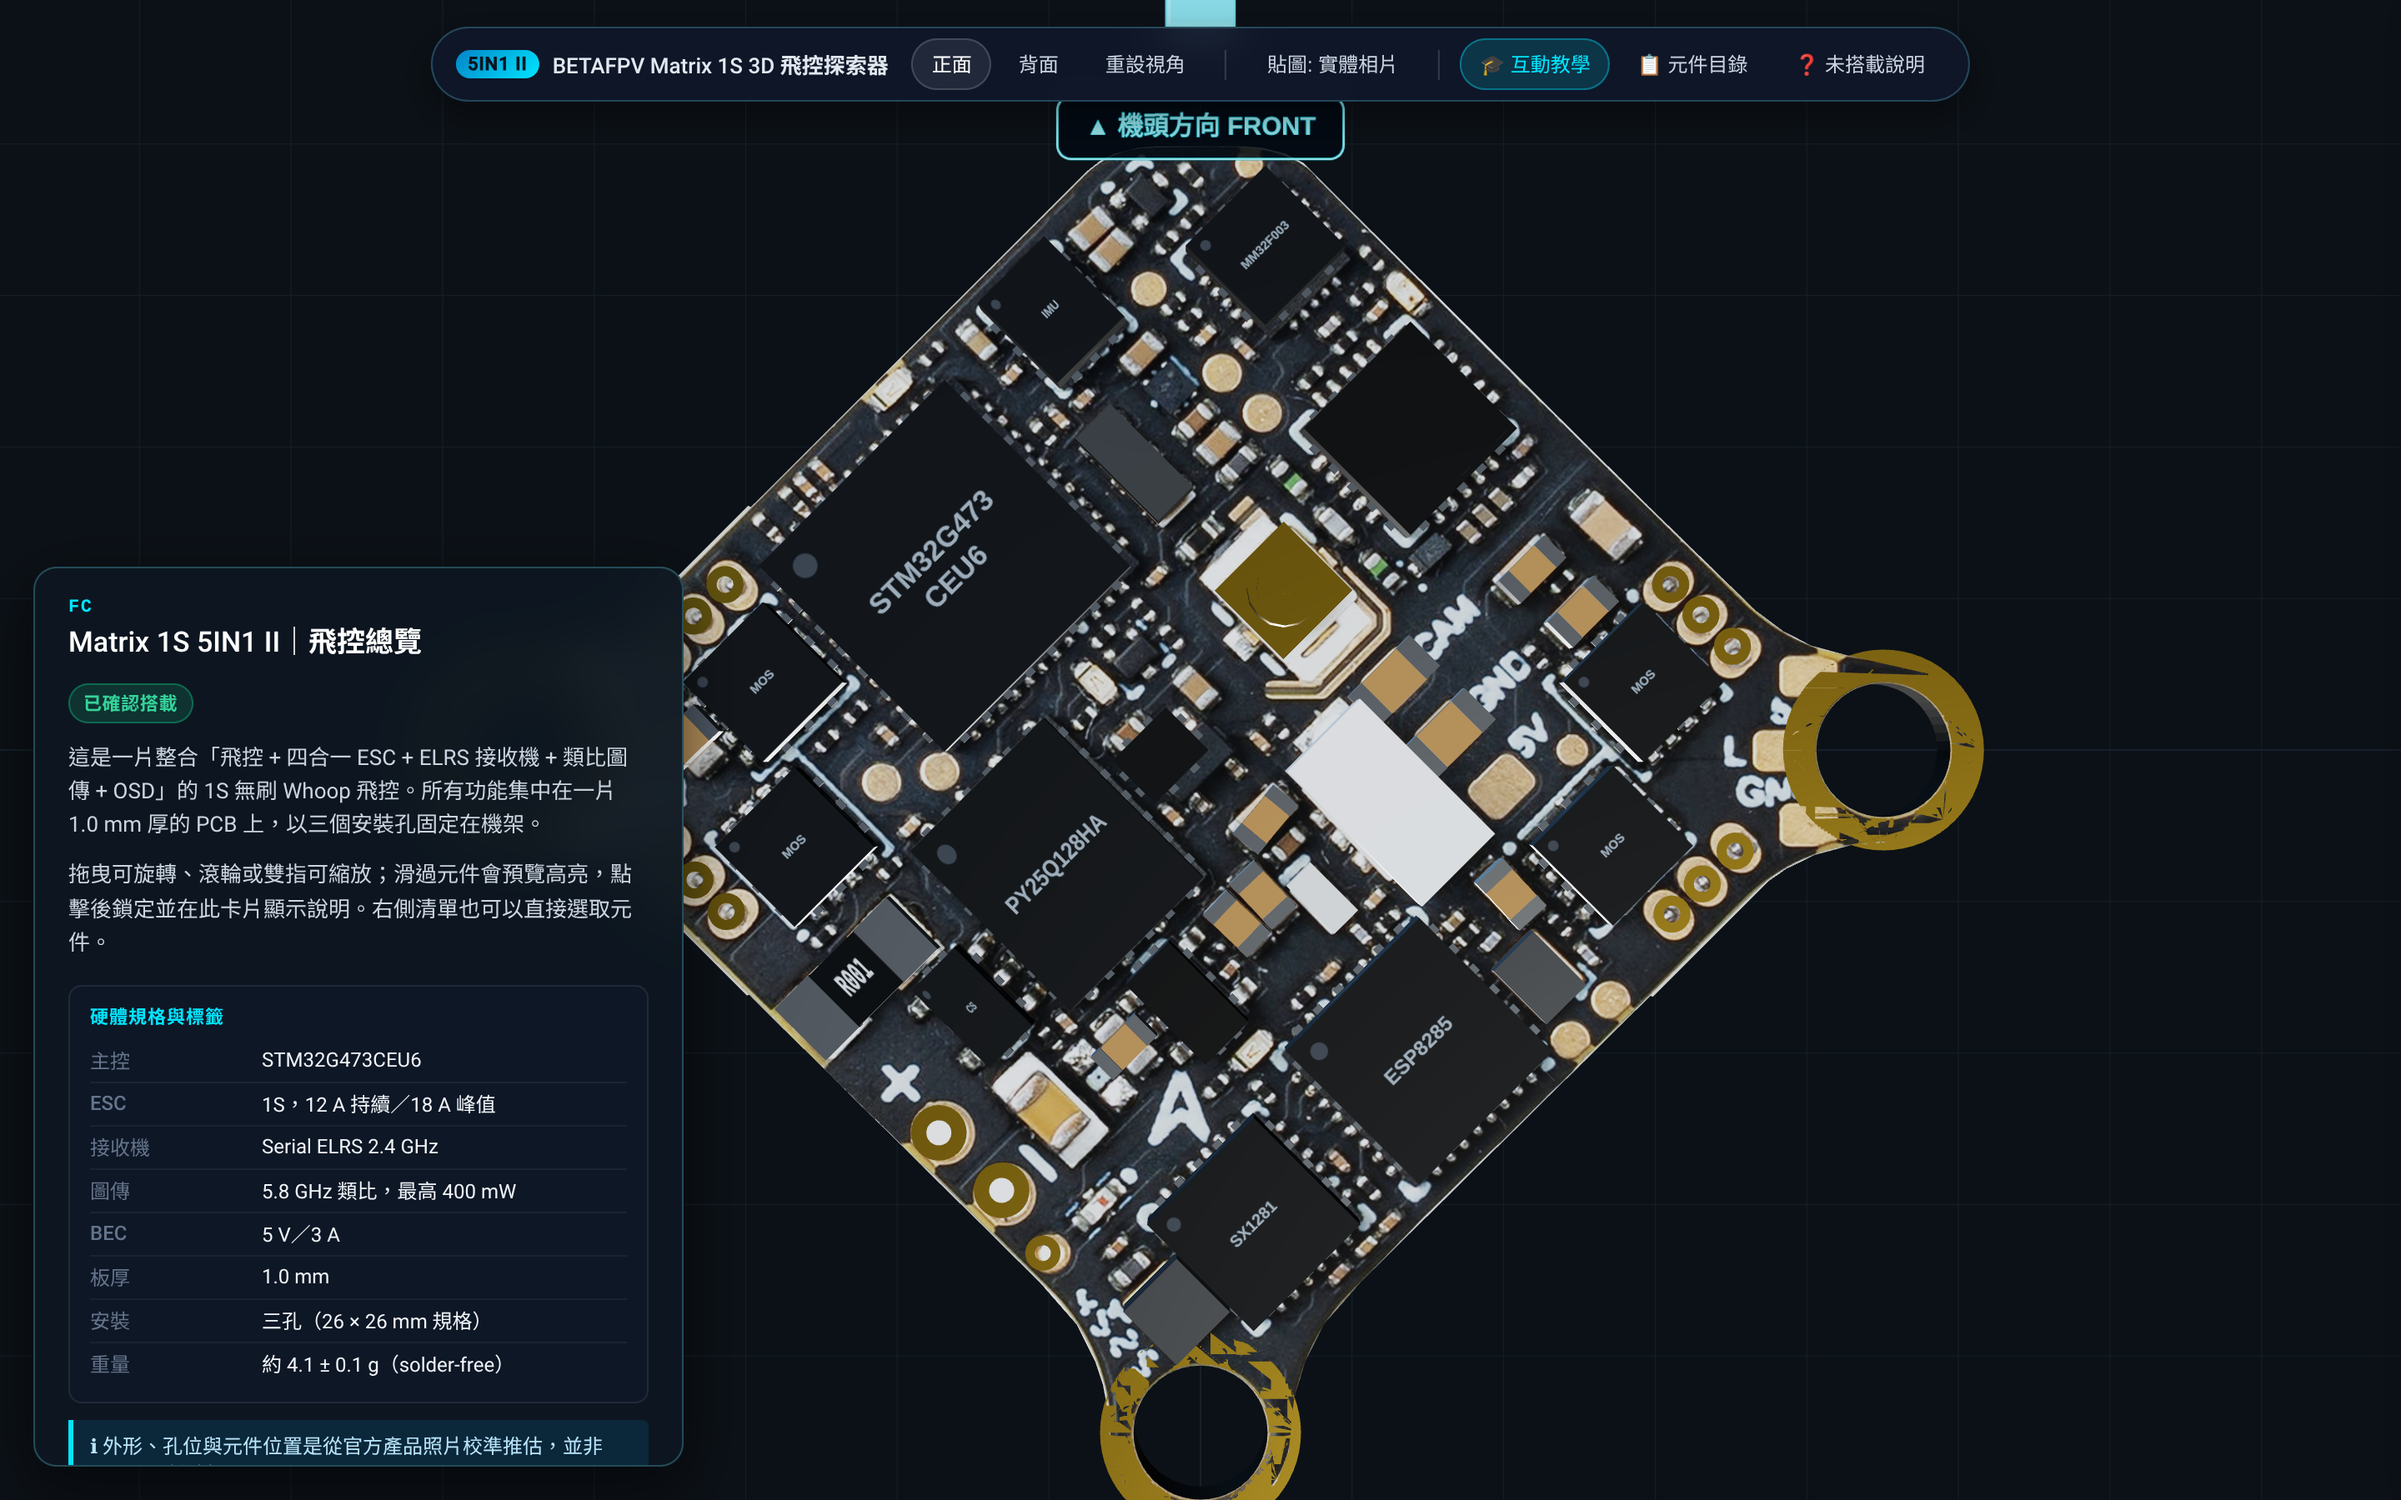
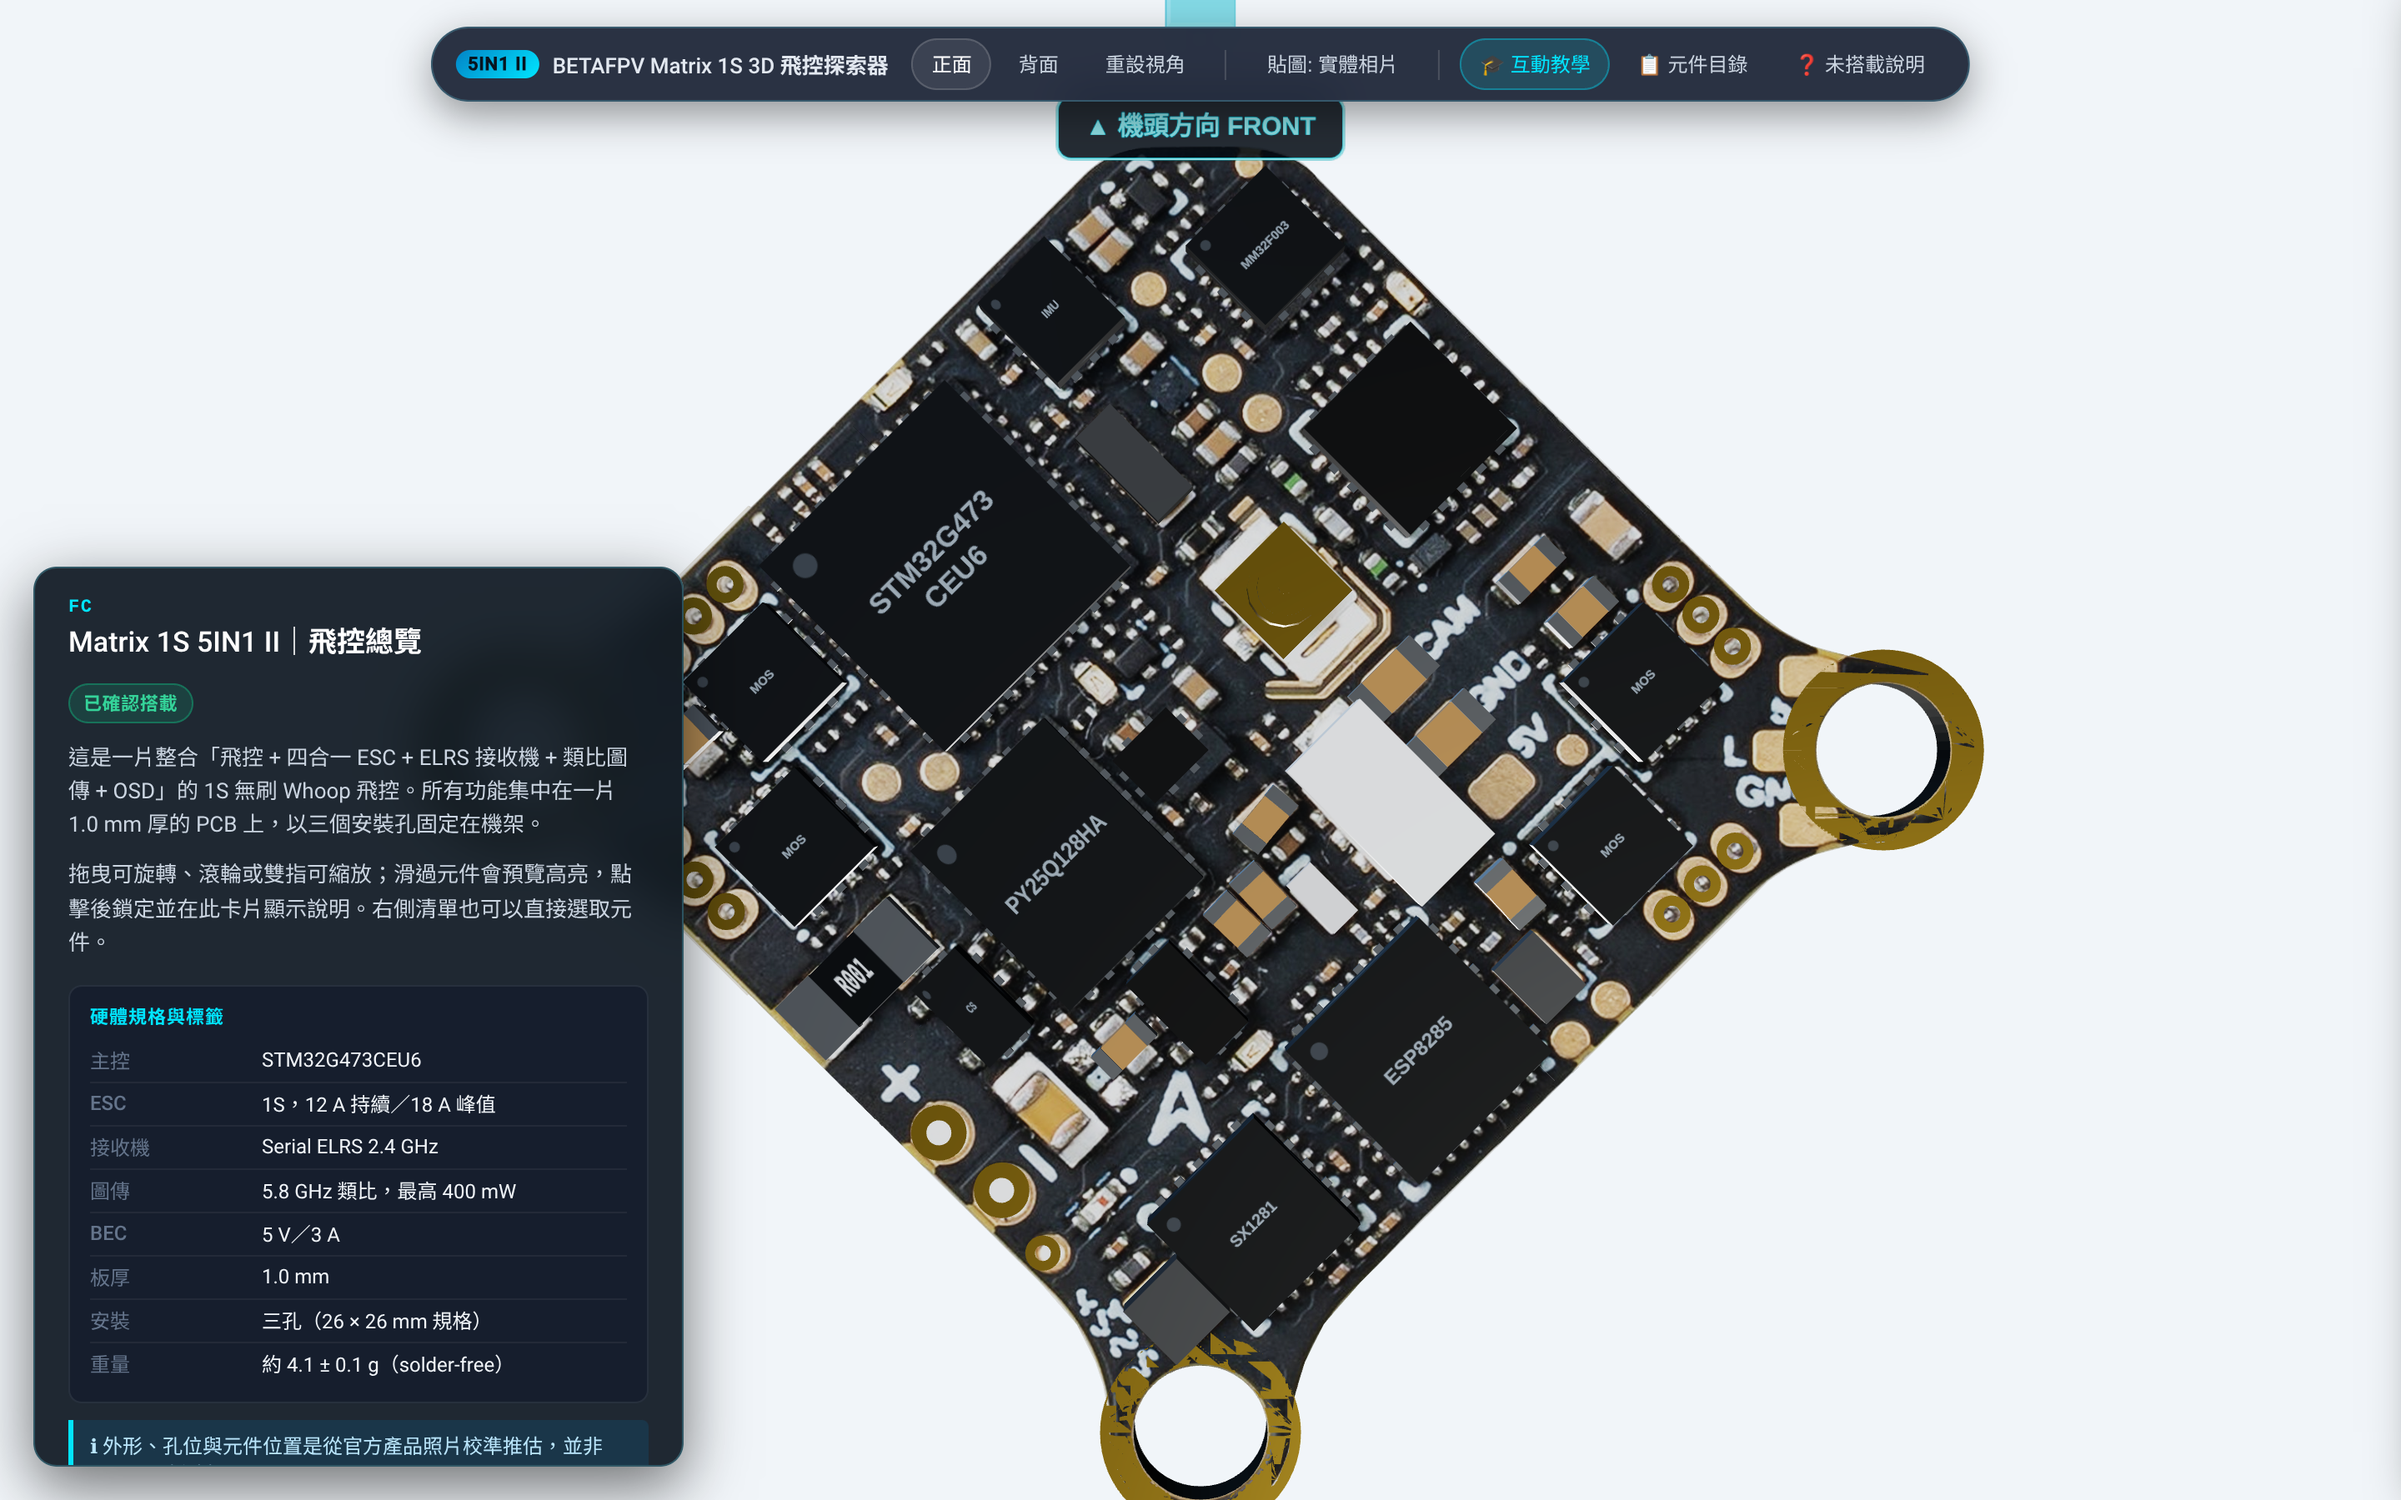
style: remove 3D grid and switch to bright studio background

diff --git a/src/scene/setupScene.ts b/src/scene/setupScene.ts
@@ -13,12 +13,7 @@ export interface SceneContext {
  */
 export function setupScene(container: HTMLElement): SceneContext {
   const scene = new THREE.Scene();
-  scene.background = new THREE.Color(0x0c1117);
-
-  // Subtle coordinate grid on floor for spatial orientation
-  const gridHelper = new THREE.GridHelper(120, 24, 0x1f2e3d, 0x141e28);
-  gridHelper.position.y = -12;
-  scene.add(gridHelper);
+  scene.background = new THREE.Color(0xf1f5f9);
 
   // Camera: initial view angled toward front face
   const width = container.clientWidth || window.innerWidth;
@@ -36,26 +31,26 @@ export function setupScene(container: HTMLElement): SceneContext {
   renderer.setPixelRatio(Math.min(window.devicePixelRatio, 2));
   renderer.outputColorSpace = THREE.SRGBColorSpace;
   renderer.toneMapping = THREE.ACESFilmicToneMapping;
-  renderer.toneMappingExposure = 1.15;
+  renderer.toneMappingExposure = 1.08;
   renderer.shadowMap.enabled = true;
   renderer.shadowMap.type = THREE.PCFSoftShadowMap;
 
   container.appendChild(renderer.domElement);
 
-  // Lighting setup
-  const ambientLight = new THREE.AmbientLight(0xffffff, 0.75);
+  // Lighting setup for bright studio environment
+  const ambientLight = new THREE.AmbientLight(0xffffff, 0.7);
   scene.add(ambientLight);
 
-  const hemiLight = new THREE.HemisphereLight(0xddeeff, 0x1a202c, 0.6);
+  const hemiLight = new THREE.HemisphereLight(0xffffff, 0xcbd5e1, 0.7);
   scene.add(hemiLight);
 
   // Top Key Light
-  const dirLight1 = new THREE.DirectionalLight(0xfffaed, 1.4);
+  const dirLight1 = new THREE.DirectionalLight(0xfffaed, 1.3);
   dirLight1.position.set(25, 45, 30);
   scene.add(dirLight1);
 
   // Top Rim Light
-  const dirLight2 = new THREE.DirectionalLight(0x90c5ff, 0.8);
+  const dirLight2 = new THREE.DirectionalLight(0x90c5ff, 0.7);
   dirLight2.position.set(-30, 35, -25);
   scene.add(dirLight2);
 

diff --git a/src/styles.css b/src/styles.css
@@ -1,5 +1,5 @@
 :root {
-  --bg-dark: #0c1117;
+  --bg-dark: #f1f5f9;
   --panel-bg: rgba(13, 23, 33, 0.92);
   --panel-border: rgba(94, 212, 235, 0.28);
   --accent-cyan: #00e5ff;
